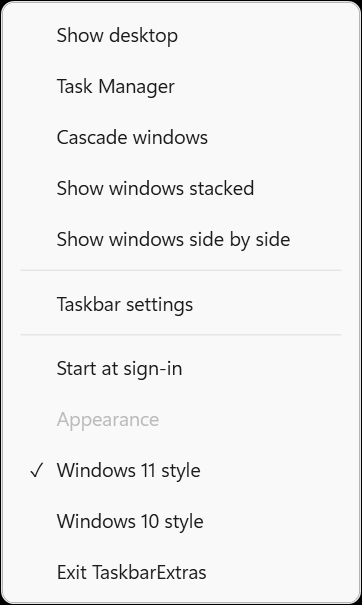
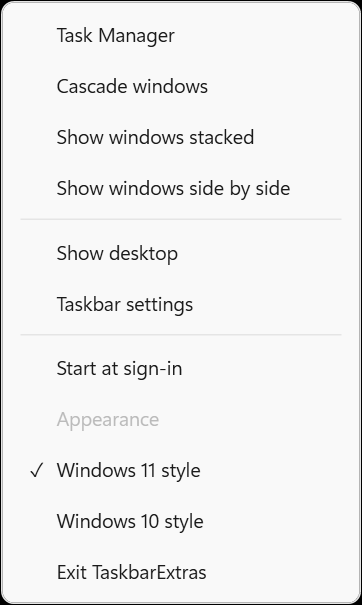
fix: put Show desktop above Taskbar settings, and move the separator
Order is now Task Manager / Cascade / Stacked / Side by side, a separator, then
Show desktop / Taskbar settings, a separator, then Start at sign-in / Appearance
/ Exit.

The separator used to sit above Taskbar settings. Moving it up one row puts the
four window-arranging items in one group and leaves Show desktop and Taskbar
settings together as a second — which reads better, since Show desktop is not a
window arrangement. It hides everything; the other four rearrange what is there.

Regenerates all four README screenshots for the new order, and both READMEs now
say plainly that the real Windows 10 taskbar menu (Toolbars / Search / Show Task
View button / Show open windows / Task Manager / Lock the taskbar / Properties)
manages system toggles and shares almost nothing with what this app builds. The
overlap is Task Manager and a settings row. Saying so is better than implying a
fidelity the menu does not have.

diff --git a/src/TaskbarExtras.Actions/IAction.cs b/src/TaskbarExtras.Actions/IAction.cs
@@ -51,15 +51,24 @@ public sealed class ActionRegistry
 
     public IAction? Find(string id) => _byId.GetValueOrDefault(id);
 
-    /// <summary>The default menu, in the same order the Windows 10 taskbar used.</summary>
+    /// <summary>
+    /// The default menu.
+    ///
+    /// <para>
+    /// The window-arranging four come first, then Show desktop, then the settings row. Show desktop
+    /// sits on its own between them rather than at the top: it is a different kind of thing from
+    /// cascade/stack/side-by-side (which rearrange what is already open, while it hides everything),
+    /// and the separator <c>Rebuild()</c> inserts before the settings row gives it a natural edge.
+    /// </para>
+    /// </summary>
     public static ActionRegistry CreateDefault()
     {
         var registry = new ActionRegistry();
-        registry.Register(new ShowDesktopAction());
         registry.Register(new TaskManagerAction());
         registry.Register(new CascadeWindowsAction());
         registry.Register(new TileHorizontallyAction());
         registry.Register(new TileVerticallyAction());
+        registry.Register(new ShowDesktopAction());
         registry.Register(new TaskbarSettingsAction());
         return registry;
     }

diff --git a/src/TaskbarExtras.App/ClassicMenuWindow.xaml.cs b/src/TaskbarExtras.App/ClassicMenuWindow.xaml.cs
@@ -151,8 +151,9 @@ public partial class ClassicMenuWindow : Window
         var items = new List<MenuItemViewModel>();
         foreach (var action in _registry.All)
         {
-            // A separator before the "settings" style entry, mirroring the Windows 10 menu.
-            if (action.Id == "taskbar-settings") items.Add(MenuItemViewModel.Separator());
+            // A separator above "Show desktop", which closes the window-arranging group. The
+            // settings row follows it with no break of its own, so the two read as one tail.
+            if (action.Id == "show-desktop") items.Add(MenuItemViewModel.Separator());
             items.Add(MenuItemViewModel.From(action, withMnemonic));
         }
 

diff --git a/README.en.md b/README.en.md
@@ -24,17 +24,19 @@ Right-click the taskbar's empty background:
 
 | | |
 |---|---|
-| Show desktop | Minimise everything; click again to restore |
 | Task Manager | |
 | Cascade windows | |
 | Show windows stacked | |
 | Show windows side by side | |
+| Show desktop | Minimise everything; click again to restore |
 | Taskbar settings | |
 | Start at sign-in | Checkable; click to toggle |
 | Appearance | Windows 11 / Windows 10 style; click to switch and restart |
 | Exit TaskbarExtras | |
 
-The first six are the Windows 10 originals, in the original order. **Appearance / Start at sign-in / Exit** did not exist there (Windows 10 started itself from Settings, and quitting meant killing the process), so they sit below the separator at the bottom and leave the six rows above alone.
+The first six are this app's own version of the Windows 10 taskbar menu, in two groups: the first four **rearrange windows that are already open**, and the pair below the separator is something else — one hides them all, the other is a settings entry point. **Appearance / Start at sign-in / Exit** did not exist in Windows 10 (it started itself from Settings, and quitting meant killing the process), so they sit at the very bottom below the last separator.
+
+> A word about fidelity: Windows 10's real taskbar menu is `Toolbars / Search / Show Task View button / Show open windows / Task Manager / Lock the taskbar / Properties` — it manages **system toggles** and contains no window-arranging items at all. What this app implements is the window-arranging set, closer to the Windows 7 era taskbar menu. The two do not correspond item for item; that is a deliberate choice about function, not an oversight.
 
 Only the **empty** part of the taskbar is intercepted. Right-clicking Start still gives you Win+X, right-clicking a task button still gives you its jump list, right-clicking a tray icon still gives you its own menu. None of that is touched.
 

diff --git a/README.md b/README.md
@@ -24,17 +24,19 @@
 
 | | |
 |---|---|
-| 显示桌面 | 最小化所有窗口，再点一次还原 |
 | 任务管理器 | |
 | 层叠窗口 | |
 | 堆叠显示窗口 | |
 | 并排显示窗口 | |
+| 显示桌面 | 最小化所有窗口，再点一次还原 |
 | 任务栏设置 | |
 | 开机自启 | 勾选项，点一下切换 |
 | 外观 | Windows 11 / Windows 10 风格，点一下切换并重启 |
 | 退出 TaskbarExtras | |
 
-前六项就是 Windows 10 原版的顺序和内容。**外观 / 开机自启 / 退出**是 Win10 没有的（Win10 靠系统设置启动，退出则直接结束进程），所以放在分隔线之后的最底部，不去打扰上面那六项。
+上面前六项是还原 Win10 任务栏菜单的本体功能，分两组：前四项是**重排已打开的窗口**，分隔线之后的「显示桌面 / 任务栏设置」是另一组 —— 前者把窗口全部收起来，后者是设置入口。**外观 / 开机自启 / 退出**是 Win10 没有的（Win10 的开机自启在系统设置里，退出就直接结束进程），放在最后一条分隔线之后的最底部。
+
+> 关于「还原度」的一点实话：Windows 10 真实的任务栏右键菜单是 `工具栏 / 搜索 / 显示"任务视图"按钮 / 显示打开的窗口 / 任务管理器 / 锁定任务栏 / 属性`，管的是**系统开关**，一项目录排列都没有。本项目实现的是**窗口排列**那套（更接近 Win7 时代的任务栏菜单），所以外形上并不逐项对应 —— 这是功能取向的选择，不是遗漏。
 
 只有任务栏**空白处**会被拦截。右键开始按钮还是 Win+X，右键任务图标还是跳转列表，右键托盘图标还是各自的菜单 —— 这些都没动。
 
